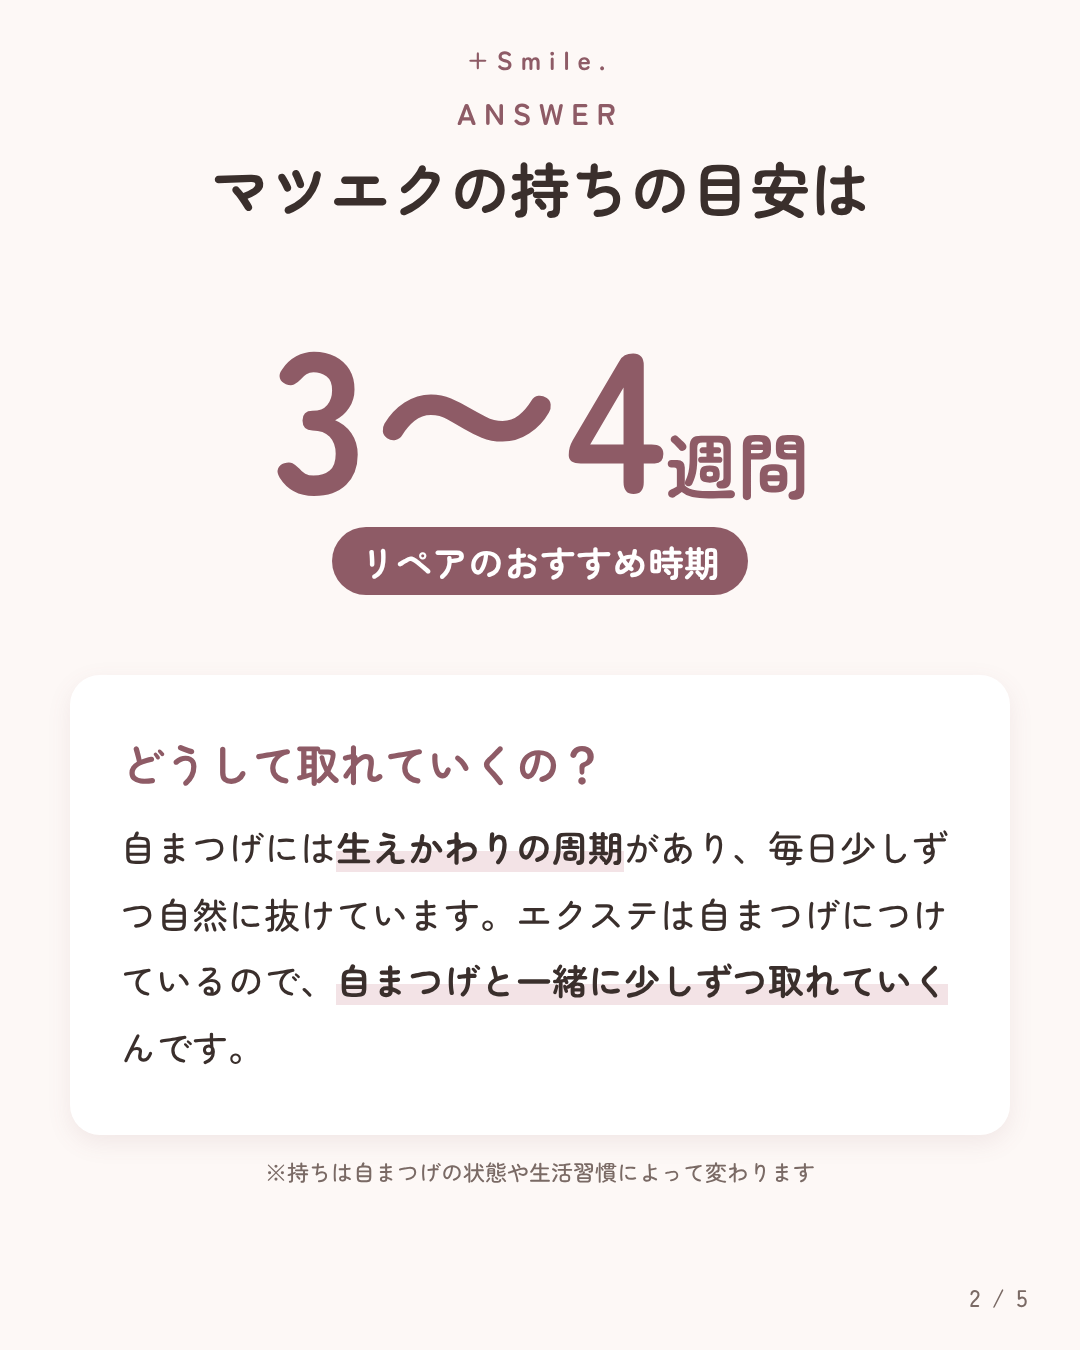
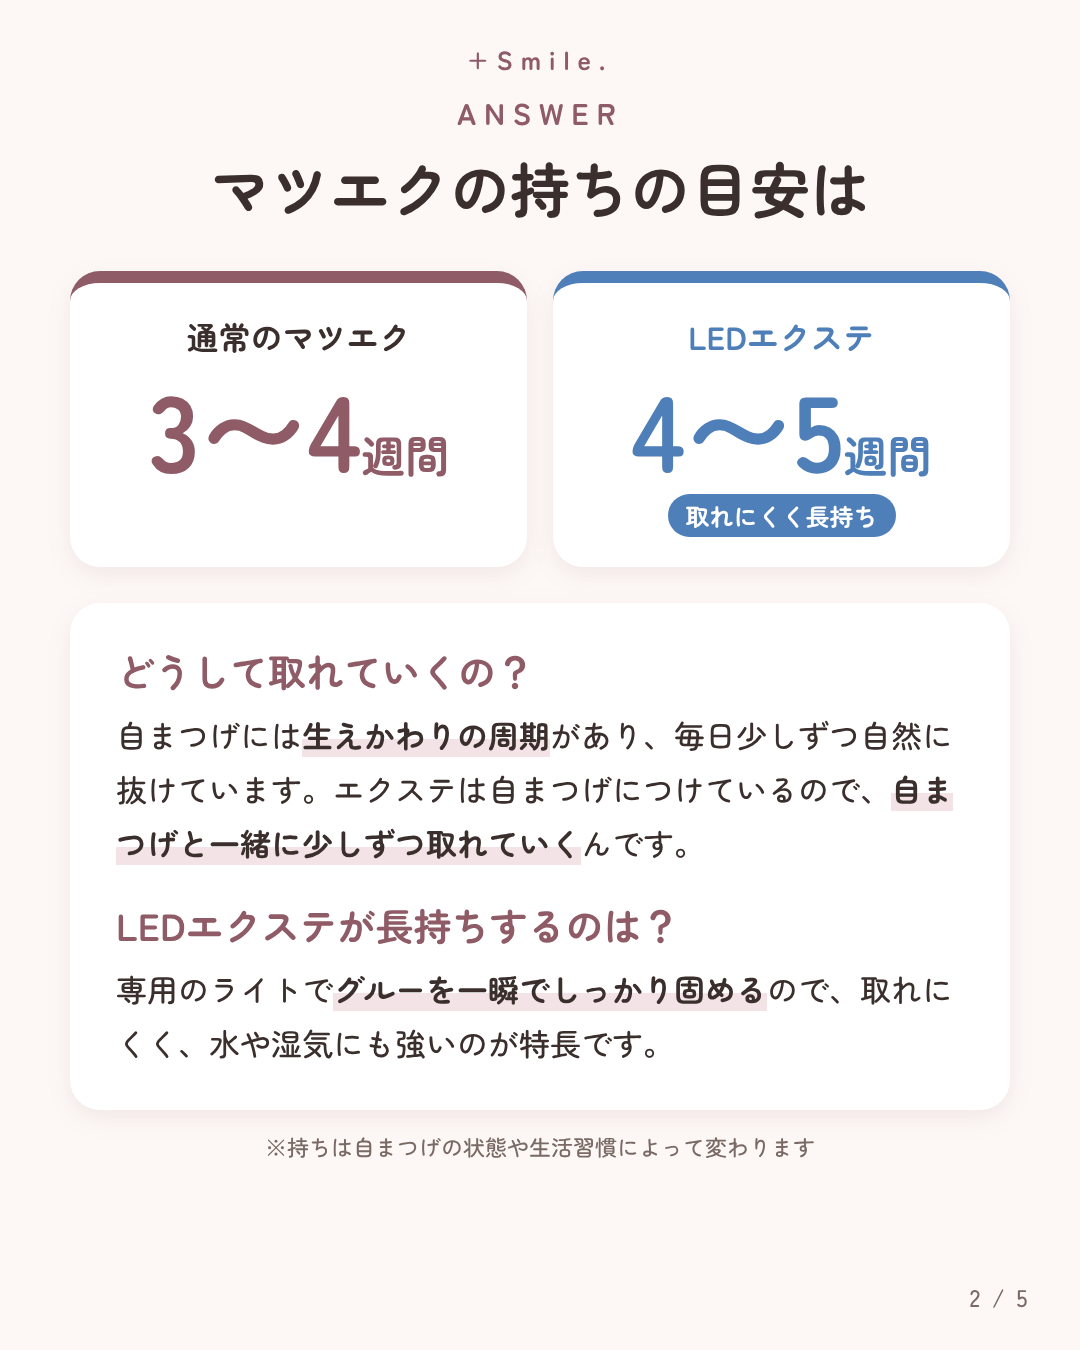
Add LED extension retention cycle to Q.02
Claude-Session: https://claude.ai/code/session_01RnzPAiRFnrgMRB8gP5ZfAt

diff --git a/まつげQ&A投稿/Q02_マツエクの持ち/投稿文.md b/まつげQ&A投稿/Q02_マツエクの持ち/投稿文.md
@@ -9,12 +9,17 @@
 ＼ まつげQ&A Q.02 ／
 「マツエクって、どのくらい持ちますか？」
 
-持ちの目安は【3〜4週間】です☺
+持ちの目安は
+通常のマツエク【3〜4週間】
+LEDエクステ【4〜5週間】です☺
 
 自まつげには生えかわりの周期があり、
 毎日少しずつ自然に抜けています。
 エクステは自まつげにつけているので、
 自まつげと一緒に少しずつ取れていくんです。
+
+LEDエクステは、専用のライトでグルーを一瞬でしっかり固めるので、
+取れにくく、水や湿気にも強いのが特長です💡
 
 ✕ 持ちが悪くなるNG習慣
 ・目もとをこする
@@ -26,7 +31,7 @@
 ・毎日ブラッシング
 ・アイシャンプーでやさしく洗う
 ・ドライヤーは冷風で
-・3〜4週間でリペア
+・早めにリペア（3〜4週間、LEDエクステは4〜5週間が目安）
 
 きれいが続くうちに、早めのリペアがおすすめです✨
 次回のご予約は、施術のあとにその場でお取りできます📅
@@ -37,5 +42,5 @@
 ⏰9:00〜17:00｜当日のご予約もOK
 📅ご予約はプロフィールのリンクから
 ━━━━━━━━━━━━
-#まつげQA #マツエク #マツエクの持ち #マツエクリペア #まつげケア #熊本マツエク #熊本まつげパーマ #熊本市東区 #プリュスマイル
+#まつげQA #マツエク #マツエクの持ち #マツエクリペア #LEDエクステ #まつげケア #熊本マツエク #熊本まつげパーマ #熊本市東区 #プリュスマイル
 ```
